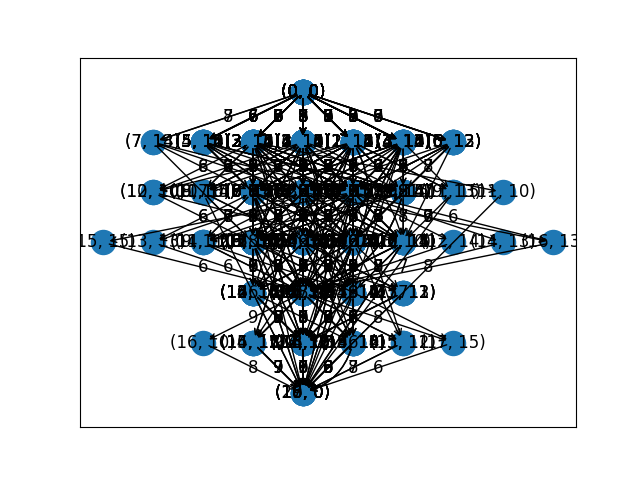
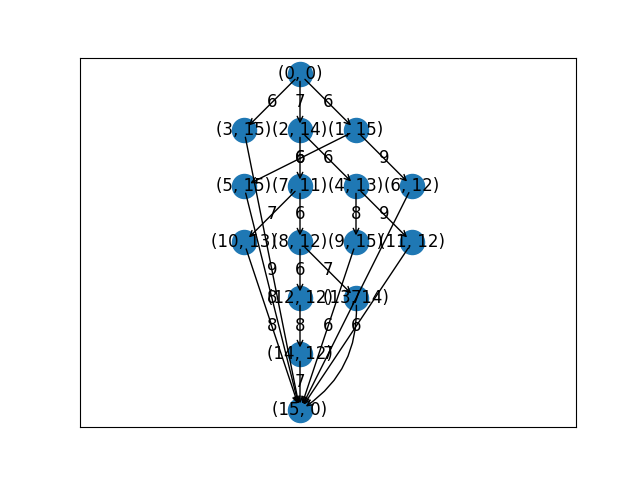
save task graph

Changed region(s): [[0.125, 0.125, 0.9062, 0.875]]

diff --git a/deadline_constrained_2017.py b/deadline_constrained_2017.py
@@ -2,7 +2,7 @@
 Author: 娄炯
 Date: 2021-06-03 15:49:12
 LastEditors: loujiong
-LastEditTime: 2021-07-01 15:54:26
+LastEditTime: 2021-07-01 16:41:24
 Description: no re_schedule
 Email:  413012592@qq.com
 '''
@@ -49,6 +49,11 @@ def re_scheduling(is_draw=False,
                           release_node=rd(0, edge_number - 1),application_index = i)
         for i in range(application_num)
     ]
+
+    # save task graph figures
+    for i in range(application_num):
+        print("application_{0} node number:{1} edge number:{2}".format(i, application_list[i].task_graph.number_of_nodes(), application_list[i].task_graph.number_of_edges()))
+        draw.draw(application_list[i].task_graph, is_save = True, _application_index = i)
 
     # calculate the total/average task weight
     t_sum = 0
@@ -317,7 +322,6 @@ def re_scheduling(is_draw=False,
         print("remain_length_for_entry:{0}".format(application_list[_release_index].task_graph.nodes[0]["current_remain_length"]))
         print("(task_id,select_node_id,start_time,finish_time,sub_deadline)")
         print([(i,application_list[_release_index].task_graph.nodes[i]["selected_node"],application_list[_release_index].task_graph.nodes[i]["start_time"],application_list[_release_index].task_graph.nodes[i]["finish_time"],application_list[_release_index].task_graph.nodes[i]["sub_deadline"]+application_list[_release_index].release_time) for i in application_list[_release_index].task_graph.nodes()])
-        draw.draw(application_list[_release_index].task_graph, is_save = True, _application_index = _release_index)
         # utils.check(application_list)
 
     # 设置 finish_task_set

diff --git a/utils.py b/utils.py
@@ -2,7 +2,7 @@
 Author: 娄炯
 Date: 2021-04-16 13:18:37
 LastEditors: loujiong
-LastEditTime: 2021-07-01 16:11:42
+LastEditTime: 2021-07-01 16:15:59
 Description: utils file
 Email:  413012592@qq.com
 '''
@@ -127,6 +127,7 @@ class Application():
         task_num=5,
         application_index = -1
     ):
+        print("start initial application {0}".format(application_index))
         self.release_time = release_time
         self.finish_time = -1
         self.release_node = release_node
@@ -162,7 +163,7 @@ class Application():
 
         
 # ----------------------- connect the previous and the next level---------------------------     
-        print("node_for_level:{0}".format(node_for_level))
+        
         # current_edge_num = 0
         # for i in range(level_num - 1):
         #     for j in node_for_level[i]:
@@ -175,6 +176,8 @@ class Application():
         #             self.task_graph.add_edge(random.choice(node_for_level[i-1]) + 1 ,j + 1)
         #             current_edge_num += 1
         
+        print("node_for_level:{0}".format(node_for_level))
+
         # add sink and source edges to current_edge_num
         current_edge_num += len(node_for_level[0])
         current_edge_num += len(node_for_level[-1])

diff --git a/draw.py b/draw.py
@@ -2,7 +2,7 @@
 Author: 娄炯
 Date: 2021-04-16 16:18:15
 LastEditors: loujiong
-LastEditTime: 2021-07-01 15:55:52
+LastEditTime: 2021-07-01 16:39:59
 Description: draw task graph
 Email:  413012592@qq.com
 '''
@@ -92,6 +92,7 @@ def draw(G, is_save = True, _application_index = 0):
     plt.axis('equal')
     if is_save:
         plt.savefig('task_graph/task_graph_{0}.png'.format(_application_index))
+        plt.clf()
     else:
         plt.show()
 
